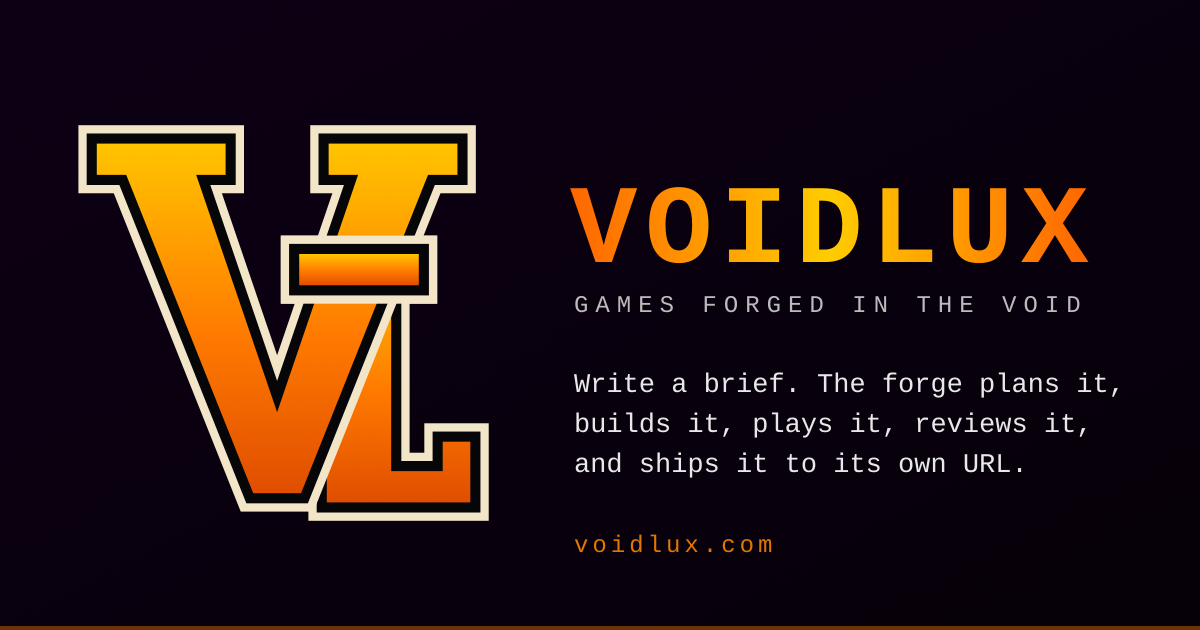
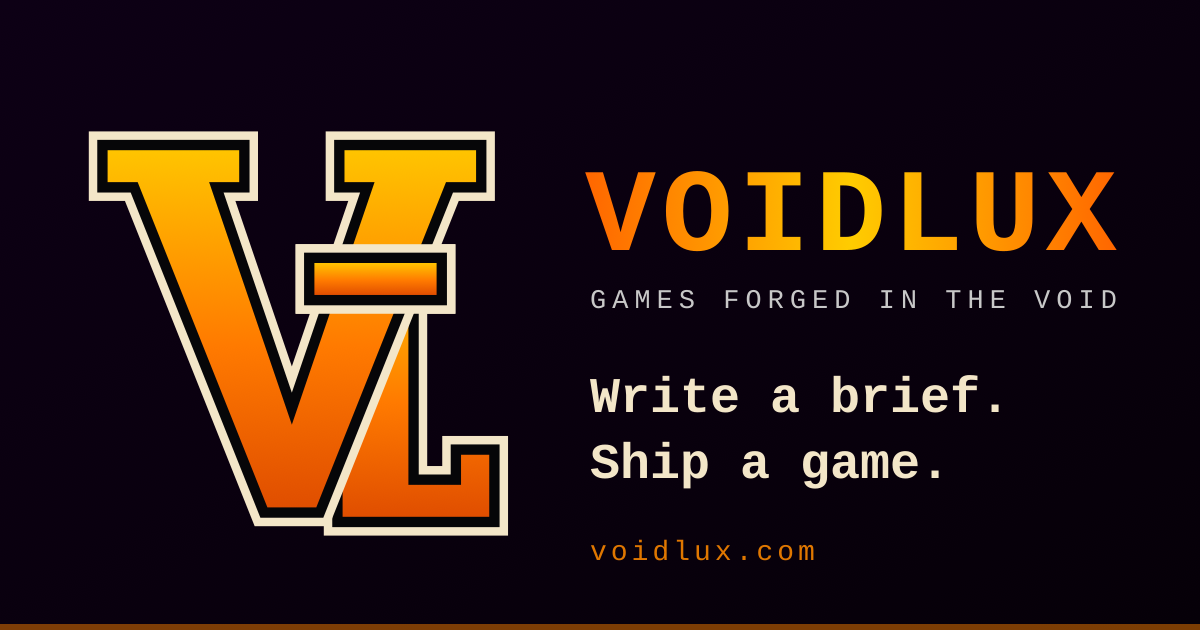
Open Graph card: larger copy that survives thumbnailing; longer description
The previous card's three-line body became illegible at LinkedIn's
thumbnail size ("brief" read as "reif"). The card now carries
"Write a brief. Ship a game." at 50px. og:image gets ?v=2 so cached
scrapes refetch, and og:description meets LinkedIn's 100-char minimum.

diff --git a/views/home/index.php b/views/home/index.php
@@ -13,16 +13,16 @@
 <meta property="og:type" content="website">
 <meta property="og:site_name" content="VoidLux">
 <meta property="og:title" content="VoidLux — games forged in the void">
-<meta property="og:description" content="Write a brief. The forge plans it, builds it, plays it, reviews it, and ships it to its own URL.">
+<meta property="og:description" content="Write a brief and VoidLux forges the game: an AI planner designs it, Claude Code builds it, a headless soak plays it, an independent reviewer judges it, and it ships to its own URL.">
 <meta property="og:url" content="https://voidlux.com/">
-<meta property="og:image" content="https://voidlux.com/og-voidlux.png">
+<meta property="og:image" content="https://voidlux.com/og-voidlux.png?v=2">
 <meta property="og:image:width" content="1200">
 <meta property="og:image:height" content="630">
-<meta property="og:image:alt" content="The VoidLux VL monogram with the words: games forged in the void">
+<meta property="og:image:alt" content="The VoidLux VL monogram with the words: Write a brief. Ship a game.">
 <meta name="twitter:card" content="summary_large_image">
 <meta name="twitter:title" content="VoidLux — games forged in the void">
-<meta name="twitter:description" content="Write a brief. The forge plans it, builds it, plays it, reviews it, and ships it to its own URL.">
-<meta name="twitter:image" content="https://voidlux.com/og-voidlux.png">
+<meta name="twitter:description" content="Write a brief and VoidLux forges the game: an AI planner designs it, Claude Code builds it, a headless soak plays it, an independent reviewer judges it, and it ships to its own URL.">
+<meta name="twitter:image" content="https://voidlux.com/og-voidlux.png?v=2">
 <style>
 /* The front door: a hero with two doors (summon, play) and the shelf of public games, in the void's black and ember. */
 * { margin: 0; padding: 0; box-sizing: border-box; }
